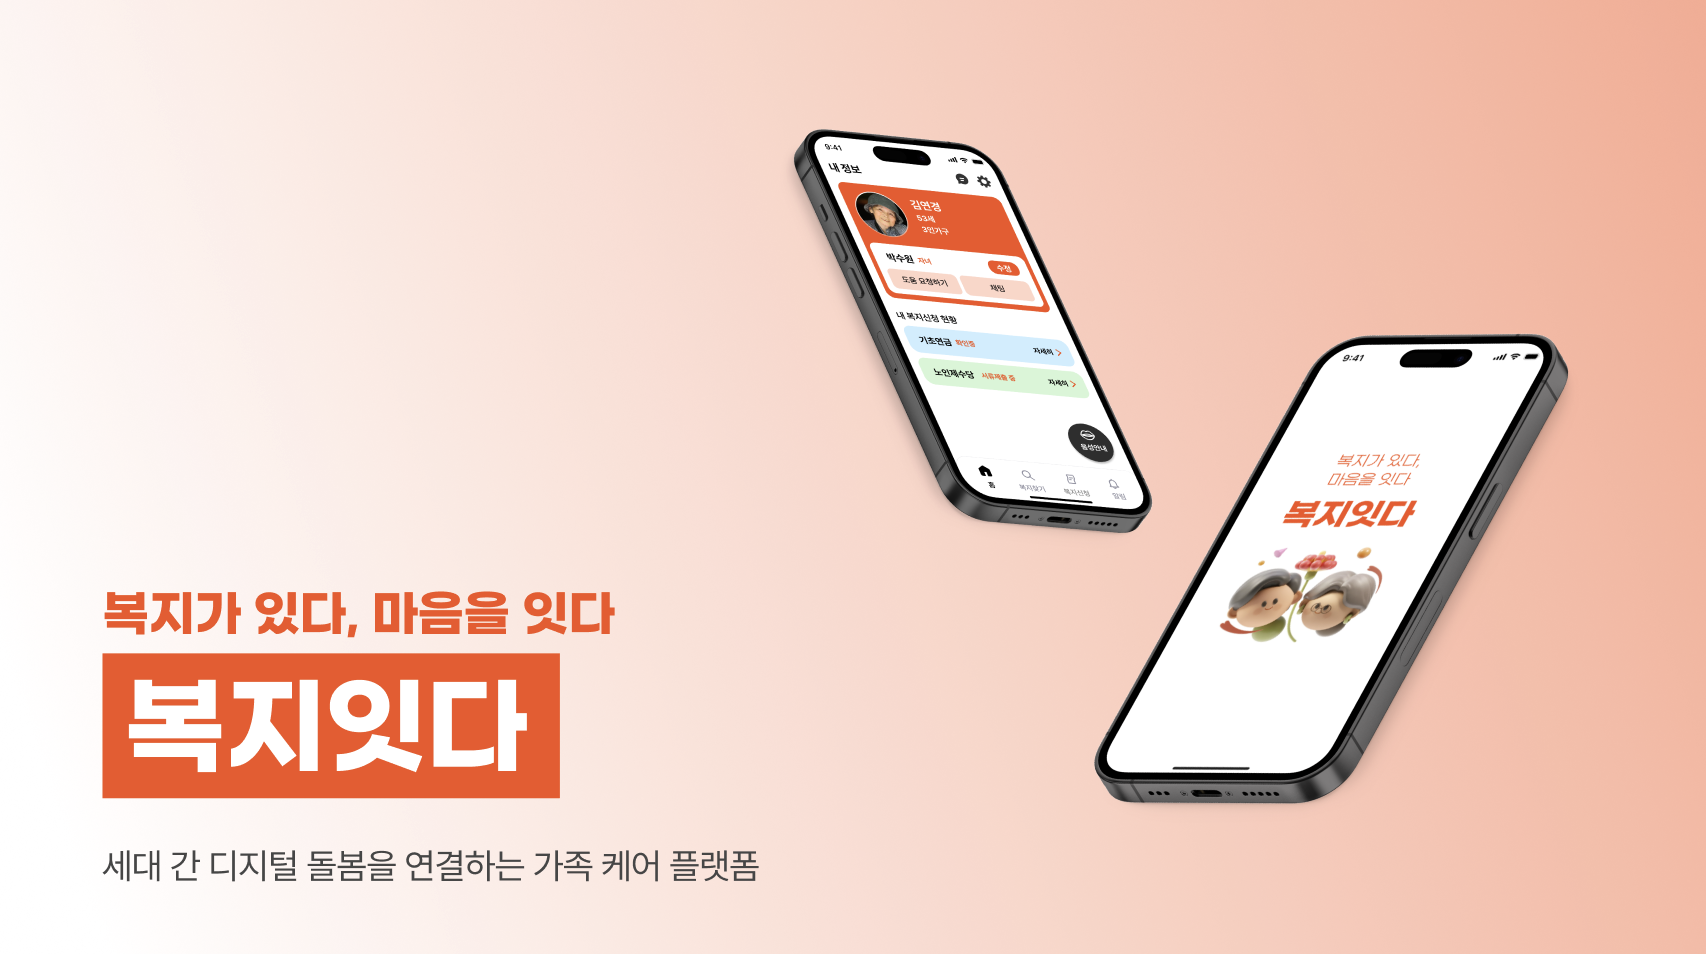
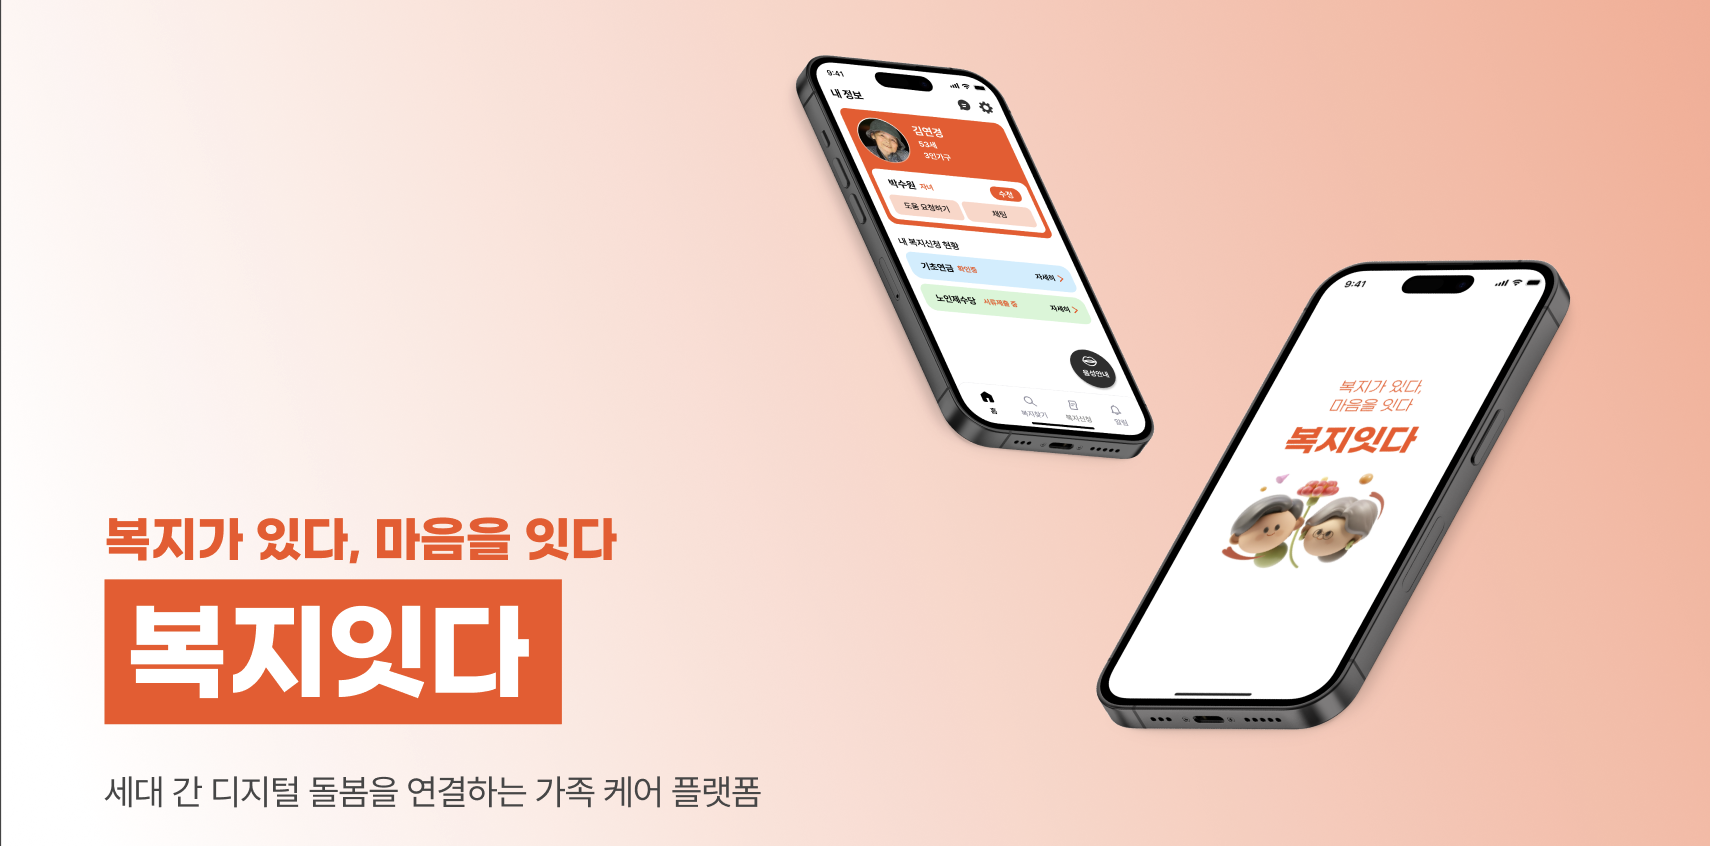
Refresh Welfare Link cover image
User replaced the cover with a new 1710x846 export; update the
imageAspect to match.

diff --git a/src/data/resume.tsx b/src/data/resume.tsx
@@ -197,7 +197,7 @@ export const DATA = {
       ],
       links: [],
       image: "/welfarelink.png",
-      imageAspect: "1706/954",
+      imageAspect: "1710/846",
       video: "",
     },
     {
